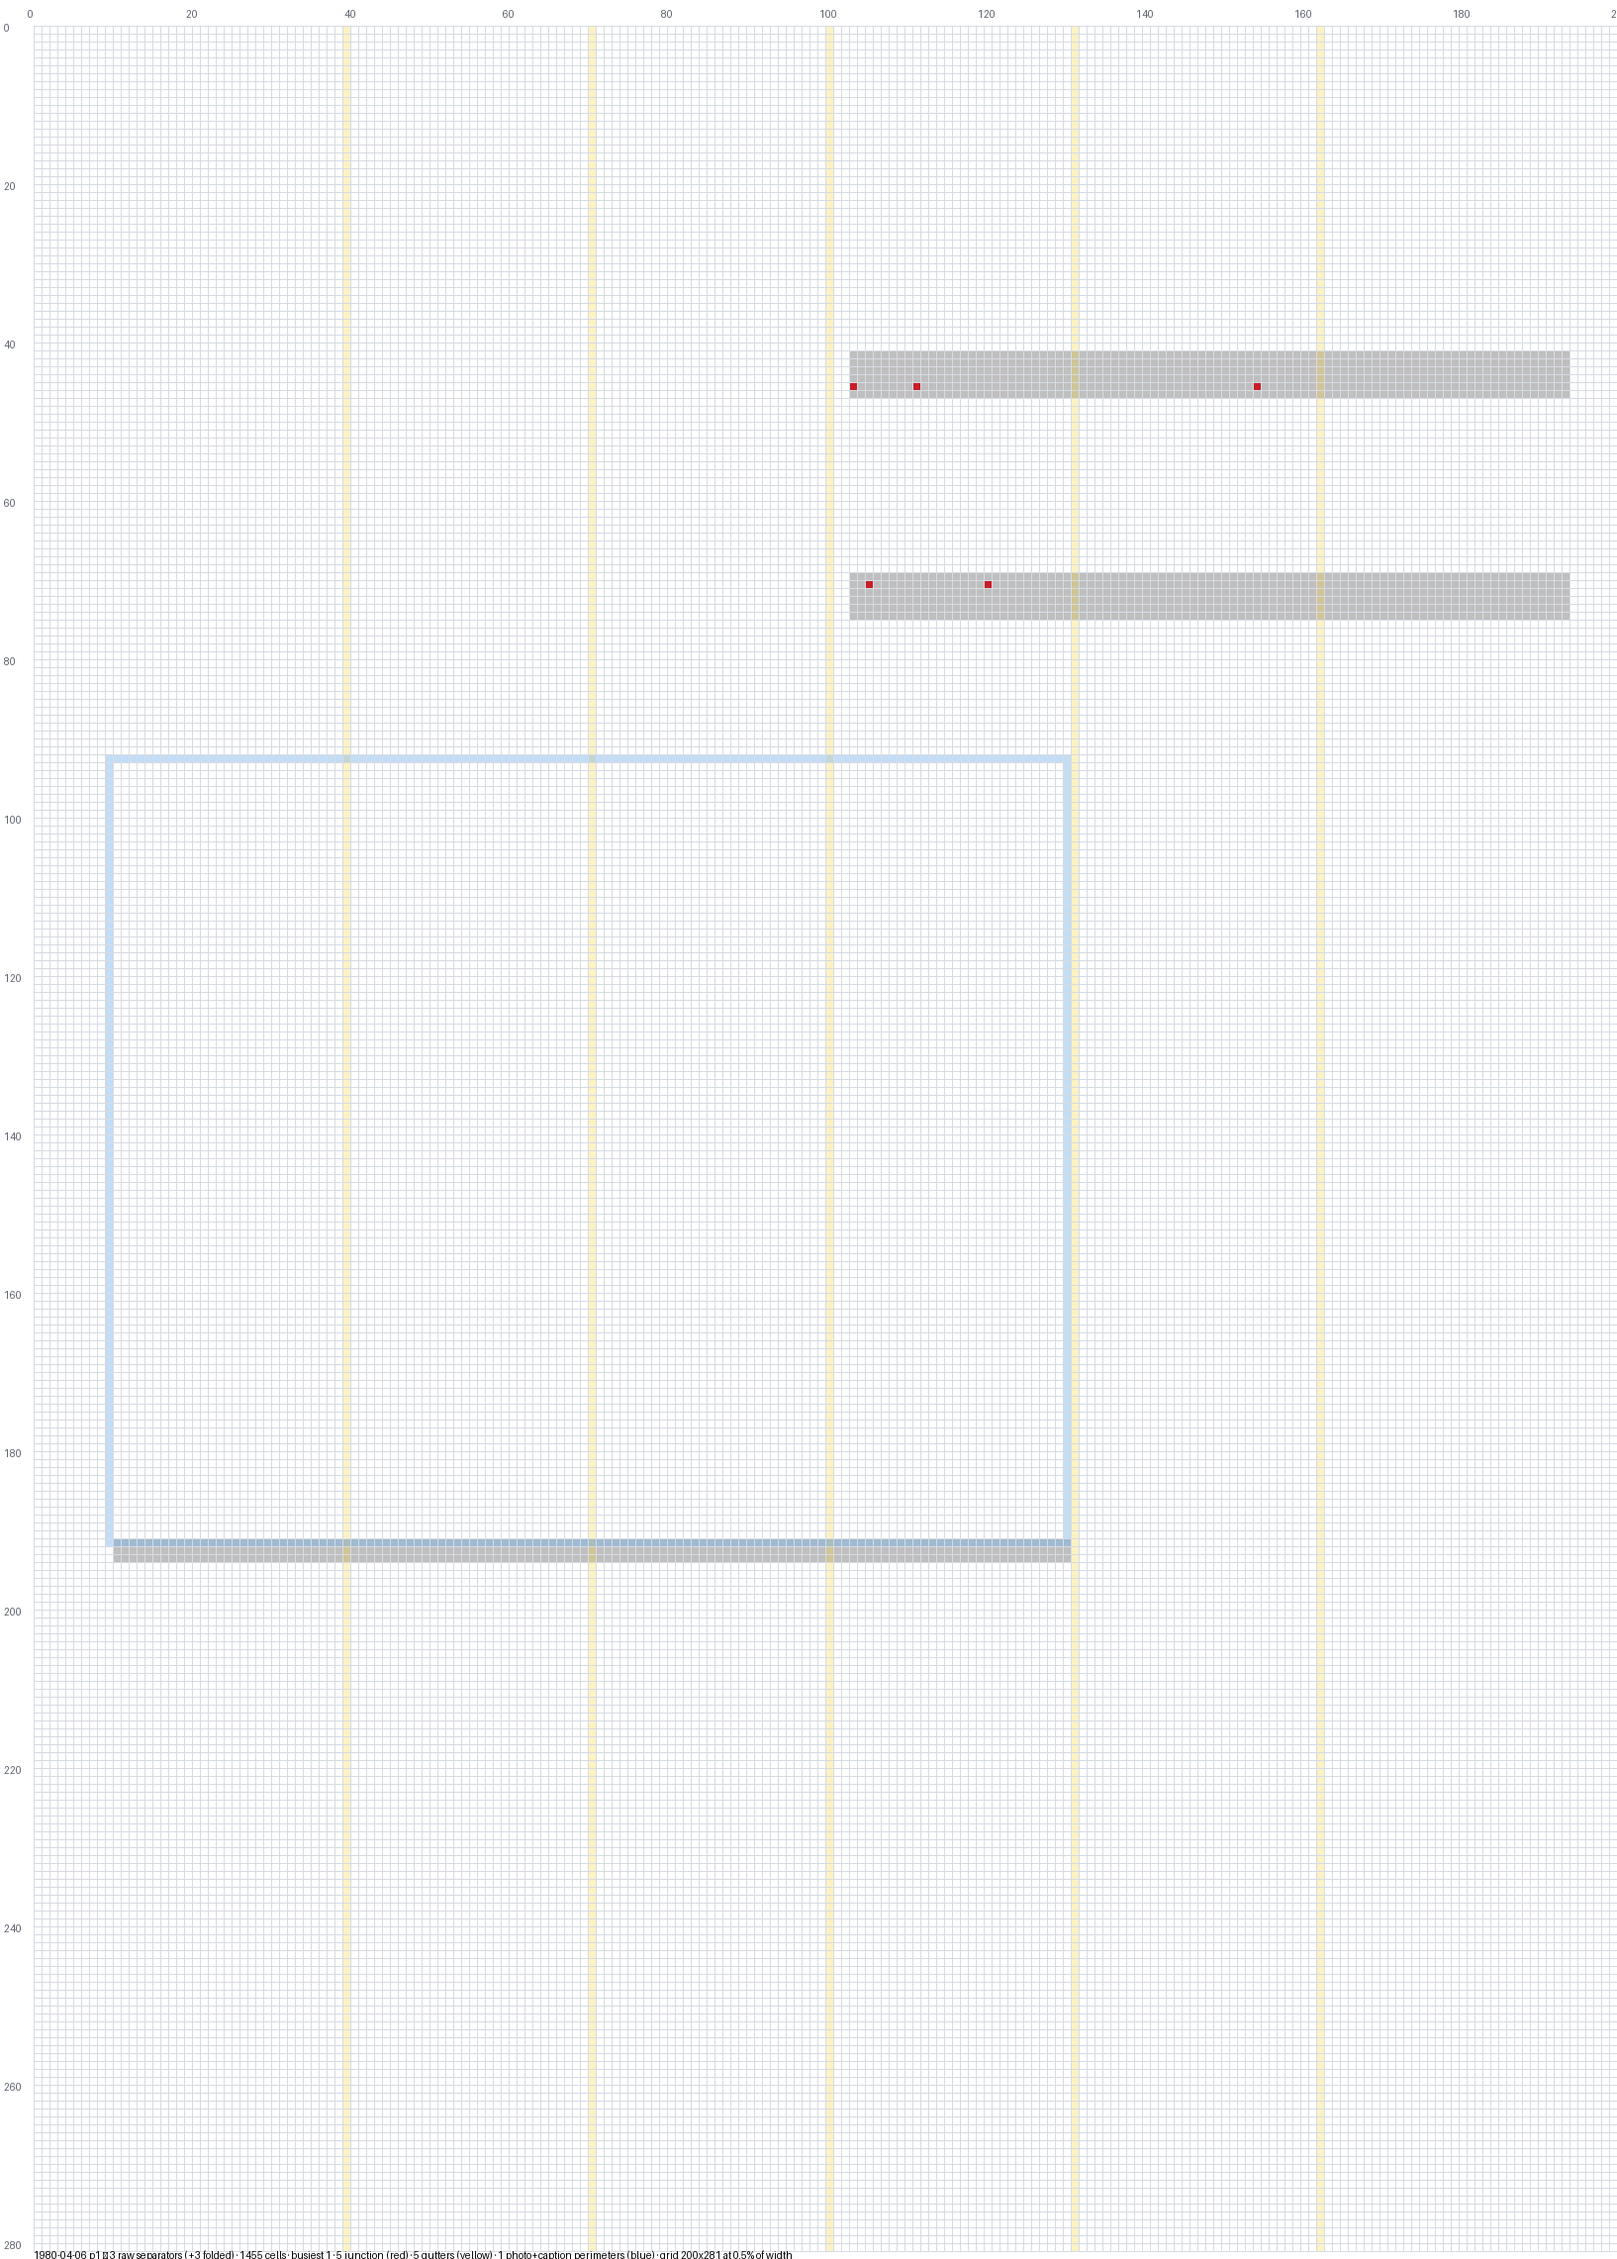
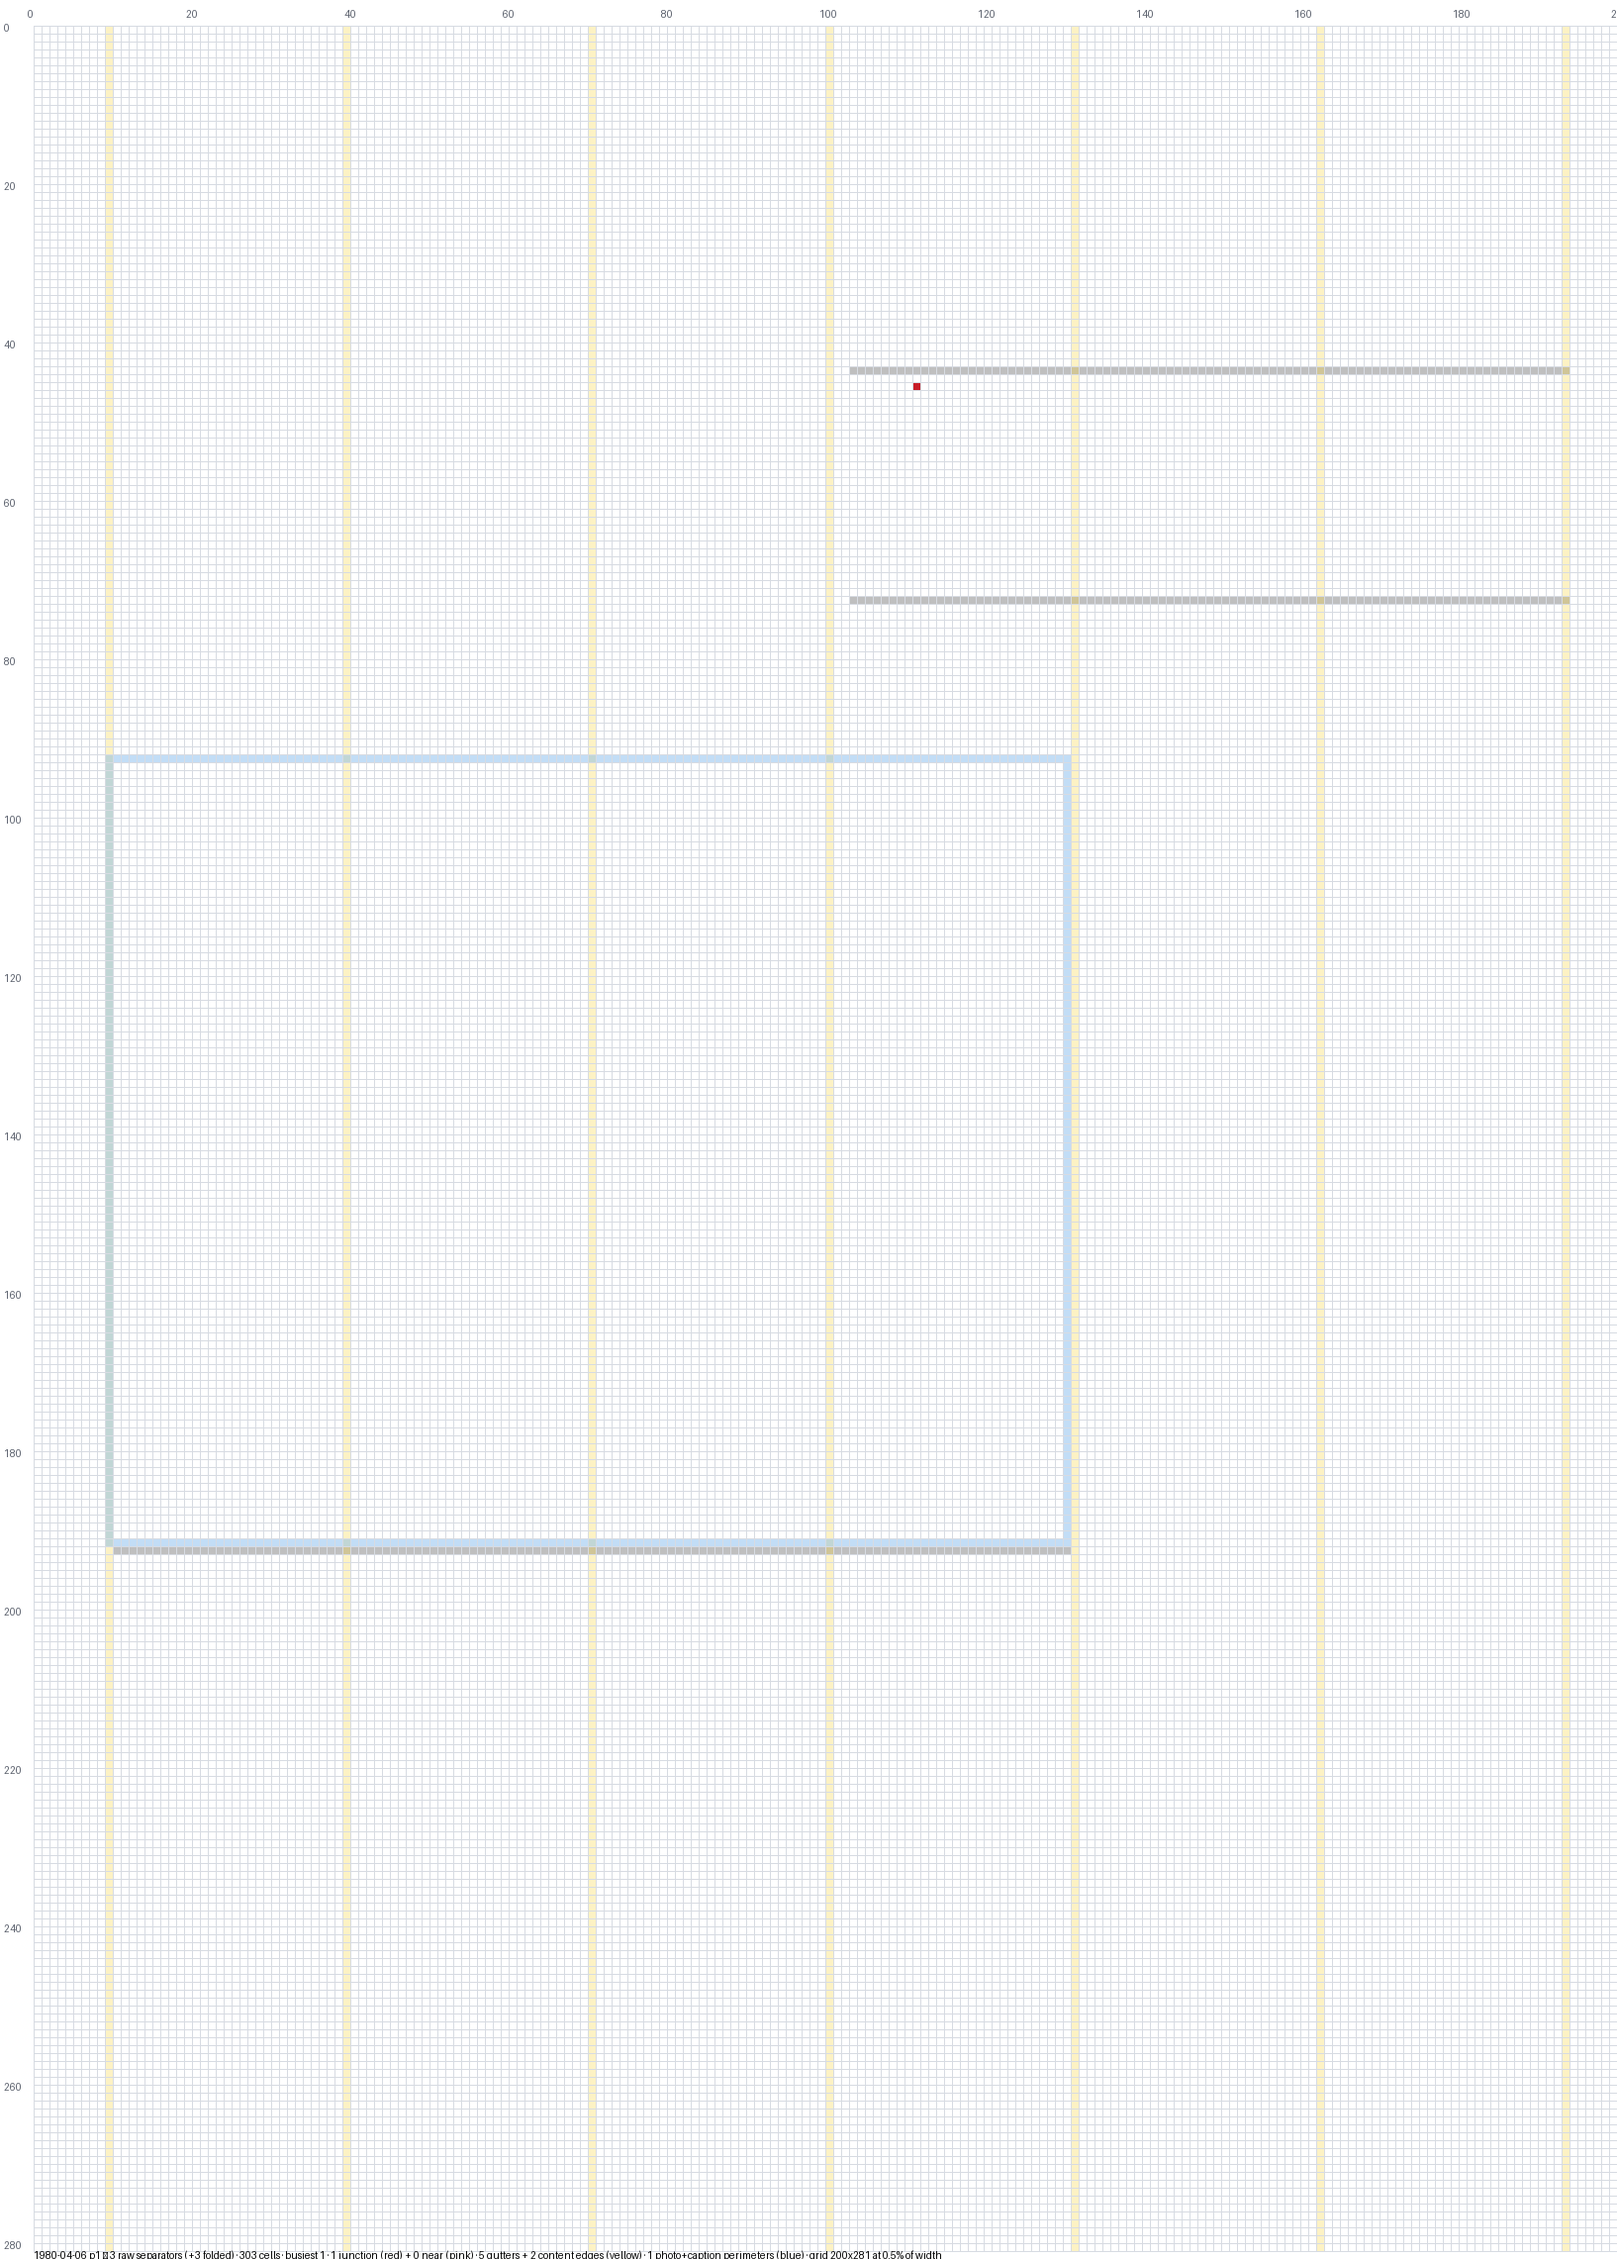
scaled/grid: mark separator ends that are NEAR another rule, in pink
Red already marked an end sharing a cell with a different separator. Pink
now marks an end that is 8-ADJACENT to one, diagonals included -- the same
idea at one cell's remove.

This matters because rounded corners and scan skew mean two rules
routinely MISS each other by a fraction of a cell. 1980-04-06 p3 is the
clean demonstration: its boxed area produced ZERO red junctions and 6
pink. The vertical starts at y 74.55 while the horizontal sits at y 74.31
-- 0.24% apart, 0.68 of a cell -- so the corner is adjacent, never
coincident. Red alone said that box had no corners at all.

A separator's own body is next to its own end by construction, so the
rule's own cells are excluded from both tests. Gutter and content-edge
lines take no part: this asks only what the ruling itself does, which is
why they were left out for now.

Counts: p13 25 red + 28 pink, p8 40 + 35, p3 0 + 6.

Claude-Session: https://claude.ai/code/session_01FiL5RaDmQAWNR3gnQRCAgK

diff --git a/transcribe/scaled/experiments/separator_grid.py b/transcribe/scaled/experiments/separator_grid.py
@@ -42,7 +42,8 @@ CELL_PX = 8           # on-screen size of one cell
 STEP_DARK = 0.25      # each separator in a cell adds this much darkness
 GRID_LINE = (215, 219, 226)
 LABEL = (90, 96, 108)
-JUNCTION = (200, 30, 40)   # a separator END meeting another separator
+JUNCTION = (200, 30, 40)   # a separator END sharing a cell with another
+NEAR = (255, 45, 200)      # a separator END one cell away from another
 GUTTER = (250, 214, 60)    # column gutter CENTRE line, blended in
 GUTTER_MIX = 0.30          # how strongly the gutter tint shows through
 PHOTO = (120, 180, 235)    # photo + caption PERIMETER, blended in
@@ -231,17 +232,35 @@ def build(conn, page_id: str, clean: bool = False):
         for cell in cells_of(r):
             occupied.setdefault(cell, set()).add(k)
 
-    # A junction is a cell holding the END of one separator and ANY part
-    # of a different one. That is what a corner looks like: a rule stops
-    # where another passes through or stops too.
+    # Two strengths of the same idea -- a rule ending where another rule
+    # is. Rounded corners and scan skew mean the two often MISS each other
+    # by a cell, so proximity has to count as well as coincidence.
+    #
+    #   junction (red)  the end shares a cell with a different separator
+    #   near     (pink) the end is 8-adjacent to one, diagonals included
+    #
+    # A separator's own body sits next to its own end by definition, so
+    # the rule's own cells are excluded from both tests. Gutter and
+    # content-edge lines are NOT separators and deliberately take no part
+    # here -- this asks only what the ruling itself does.
     junction = [[False] * n_cols for _ in range(n_rows)]
+    near = [[False] * n_cols for _ in range(n_rows)]
+    NEIGHBOURS = [(dy, dx) for dy in (-1, 0, 1) for dx in (-1, 0, 1)
+                  if (dy, dx) != (0, 0)]
     for i, r in enumerate(list(regions) + list(swallowed)):
         for (ex, ey) in _ends(r):
             cx = max(0, min(n_cols - 1, int(ex / CELL_PCT)))
             cy = max(0, min(n_rows - 1, int(ey / cell_h_pct)))
-            others = occupied.get((cy, cx), set()) - {i}
-            if others:
+            if occupied.get((cy, cx), set()) - {i}:
                 junction[cy][cx] = True
+                continue
+            for dy, dx in NEIGHBOURS:
+                ny, nx = cy + dy, cx + dx
+                if not (0 <= ny < n_rows and 0 <= nx < n_cols):
+                    continue
+                if occupied.get((ny, nx), set()) - {i}:
+                    near[cy][cx] = True
+                    break
     # Both kinds of vertical reference get the same tint: the point is
     # "a rule here has a reason to be here", and the content edge is as
     # good a reason as a gutter.
@@ -268,7 +287,7 @@ def build(conn, page_id: str, clean: bool = False):
         for y in range(r0, r1 + 1):
             photo[y][c0] = photo[y][c1] = True
 
-    return (counts, junction, gutter, photo, n_cols, n_rows,
+    return (counts, junction, near, gutter, photo, n_cols, n_rows,
             len(regions), len(swallowed), len(units), n_gut, n_edge)
 
 
@@ -276,7 +295,7 @@ def _blend(base: tuple, tint: tuple, amount: float) -> tuple:
     return tuple(int(b * (1 - amount) + t * amount) for b, t in zip(base, tint))
 
 
-def render(counts, junction, gutter, photo, n_cols, n_rows,
+def render(counts, junction, near, gutter, photo, n_cols, n_rows,
            title: str, out_path: str) -> str:
     pad_l, pad_t, pad_b = 34, 26, 8
     W = pad_l + n_cols * CELL_PX
@@ -290,6 +309,8 @@ def render(counts, junction, gutter, photo, n_cols, n_rows,
             x0, y0 = pad_l + x * CELL_PX, pad_t + y * CELL_PX
             if junction[y][x]:
                 fill = JUNCTION
+            elif near[y][x]:
+                fill = NEAR
             elif n:
                 v = int(255 * max(0.0, 1.0 - STEP_DARK * n))
                 fill = (v, v, v)
@@ -329,23 +350,26 @@ def _cmd(args):
         if not row:
             print("no such page")
             return
-        (counts, junc, gut, photo, nc, nr,
+        (counts, junc, nr_, gut, photo, nc, nr,
          n, folded, nphoto, n_gut, n_edge) = build(conn, row["id"], args.clean)
         busiest = max(max(r) for r in counts)
         cells = sum(1 for r in counts for v in r if v)
         njunc = sum(1 for r in junc for v in r if v)
+        nnear = sum(1 for r in nr_ for v in r if v)
         kind = "cleaned" if args.clean else "raw"
         title = (f"{args.date} p{args.page} — {n} {kind} separators "
                  f"(+{folded} folded) · {cells} cells · busiest {busiest} "
-                 f"· {njunc} junction (red) · {n_gut} gutters + {n_edge} "
+                 f"· {njunc} junction (red) + {nnear} near (pink) "
+                 f"· {n_gut} gutters + {n_edge} "
                  f"content edges (yellow) · {nphoto} photo+caption "
                  f"perimeters (blue) · grid {nc}x{nr} at {CELL_PCT}% of width")
         suffix = "_clean" if args.clean else ""
         out = os.path.join(OUT_DIR, args.date,
                            f"p{args.page}_sepgrid{suffix}.png")
-        print(" ", render(counts, junc, gut, photo, nc, nr, title, out))
+        print(" ", render(counts, junc, nr_, gut, photo, nc, nr, title, out))
         print(f"  {n} regions kept, {folded} folded as contained, "
-              f"{cells} cells touched, busiest {busiest}, {njunc} junctions")
+              f"{cells} cells touched, busiest {busiest}, "
+              f"{njunc} junctions + {nnear} near")
     finally:
         conn.close()
 
